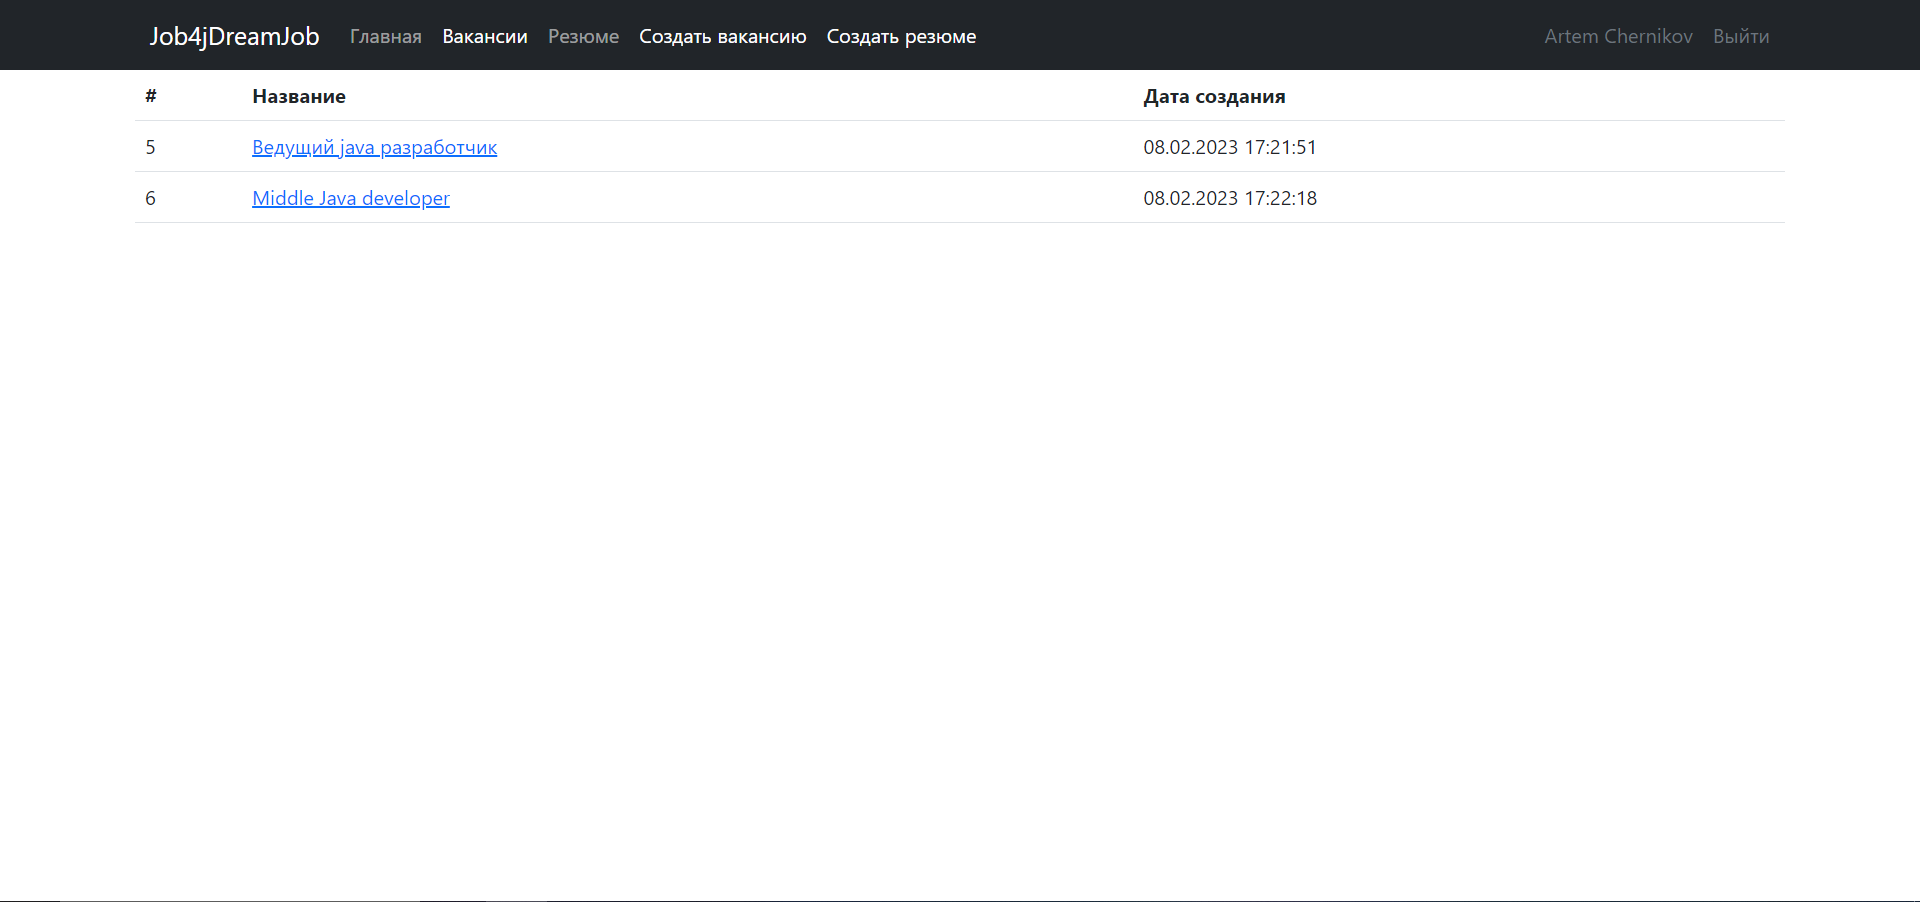
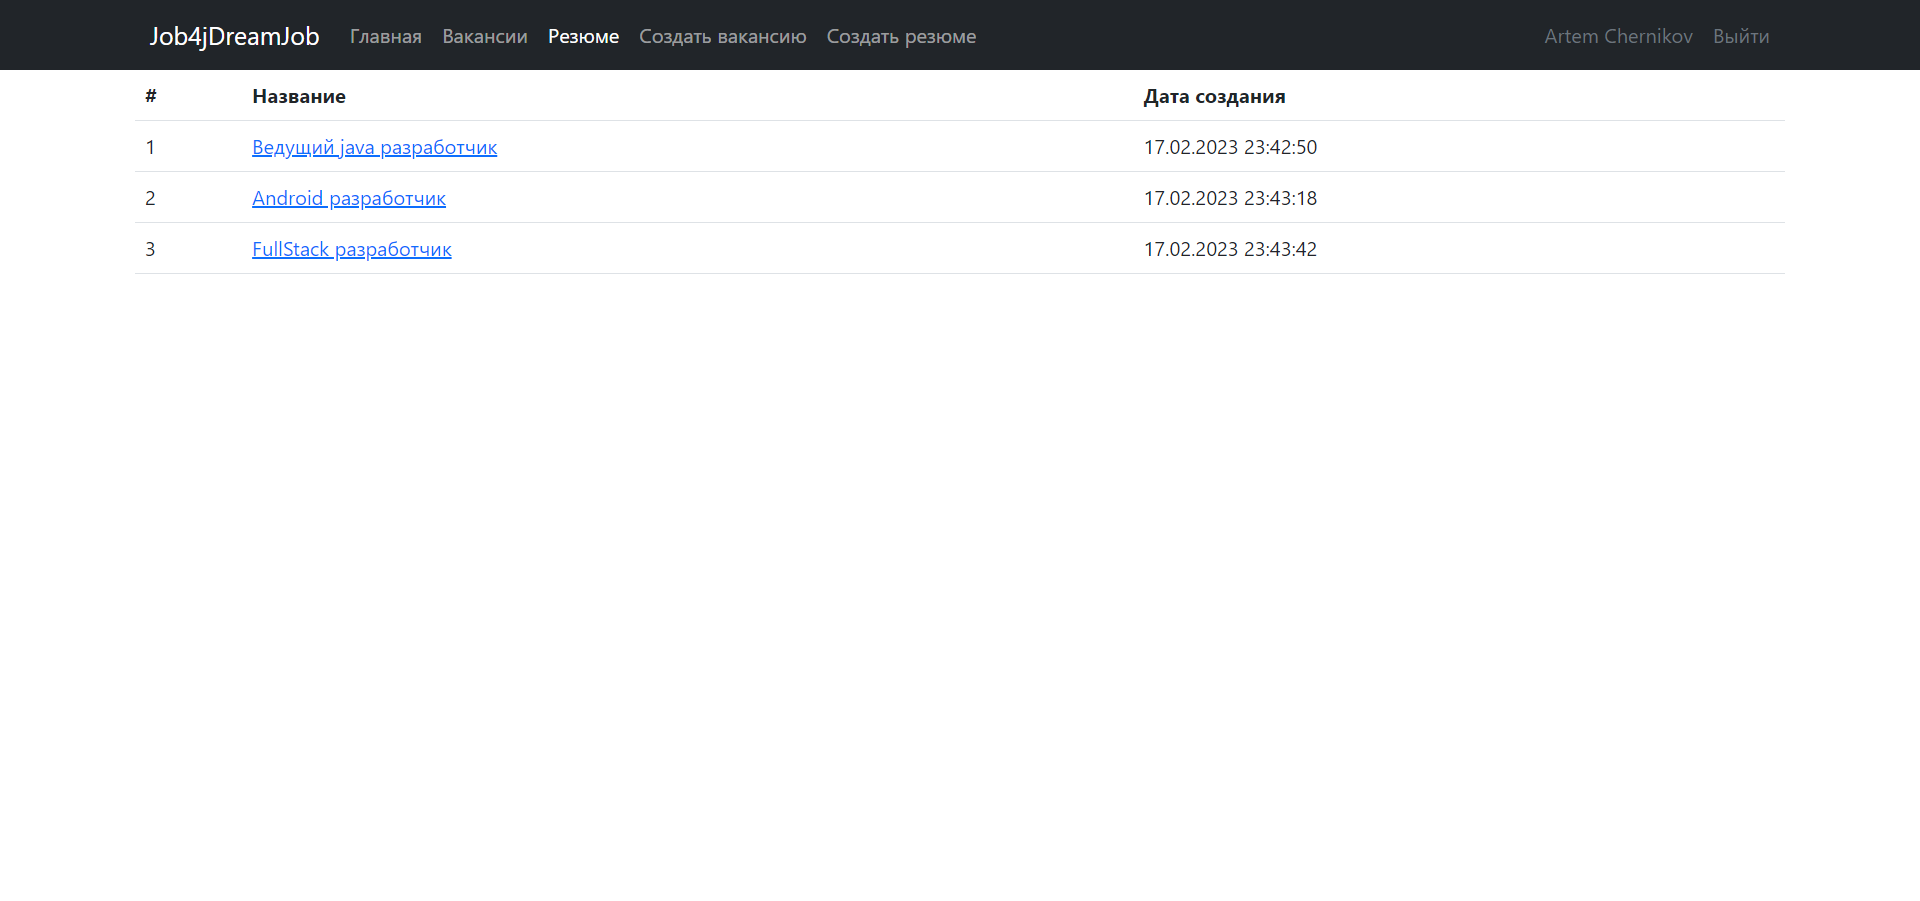
Update README.md

diff --git a/src/main/resources/templates/candidates/list.html b/src/main/resources/templates/candidates/list.html
@@ -19,8 +19,8 @@
             <div class="collapse navbar-collapse">
                 <div class="navbar-nav me-auto">
                     <a class="nav-item nav-link" href="/">Главная</a>
-                    <a class="nav-item nav-link active" th:href="@{/vacancies}">Вакансии</a>
-                    <a class="nav-item nav-link" th:href="@{/candidates}">Резюме</a>
+                    <a class="nav-item nav-link" th:href="@{/vacancies}">Вакансии</a>
+                    <a class="nav-item nav-link active" th:href="@{/candidates}">Резюме</a>
                     <a class="nav-item nav-link" th:href="@{/vacancies/create}">Создать вакансию</a>
                     <a class="nav-item nav-link" th:href="@{/candidates/create}">Создать резюме</a>
                 </div>

diff --git a/README.md b/README.md
@@ -55,32 +55,31 @@ http://localhost:8080/
 ## Взаимодействие с приложением<br>
 
 ### Если пользователь не зарегистрирован в системе, необходимо пройти регистрацию.
-![img_5.png](images/img_5.png)
-
-### На странице авторизации необходимо выполнить вход.
 ![img.png](images/img.png)
 
-### На главной странице выведена общая информация о ресурсе.
+### На странице авторизации необходимо выполнить вход.
 ![img_1.png](images/img_1.png)
 
-### На странице с вакансиями можете посмотреть доступные предложения от работодателей.
+### На главной странице выведена общая информация о ресурсе.
 ![img_2.png](images/img_2.png)
+
+### На странице с вакансиями можете посмотреть доступные предложения от работодателей.
+![img_3.png](images/img_3.png)
 
 ### Если нажать на название вакансии, вы перейдете к подробному описанию вакансии, также предоставляется возможность редактирования/удаления вакансии.
 ![img_4.png](images/img_4.png)
 
 ### Если у работодателя открылась новая вакансия, то ее без проблем можно создать.
-![img_3.png](images/img_3.png)
+![img_5.png](images/img_5.png)
 
 ### На странице с резюме можете посмотреть кандидатов, которые ищут работу.
 ![img_6.png](images/img_6.png)
 
 ### Если нажать на название резюме, вы перейдете к подробному описанию кандидата, также предоставляется возможность редактирования/удаления резюме.
-![img_8.png](images/img_8.png)
-
-### Если кандидат хочет разместить резюме, то его без проблем можно создать.
 ![img_7.png](images/img_7.png)
 
+### Если кандидат хочет разместить резюме, то его без проблем можно создать.
+![img_8.png](images/img_8.png)
 
 ## Контакты для связи<br>
 <a href="https://t.me/OvercomingJunk" target="blank"><img src="https://img.icons8.com/clouds/50/000000/telegram-app.png"/></a>
